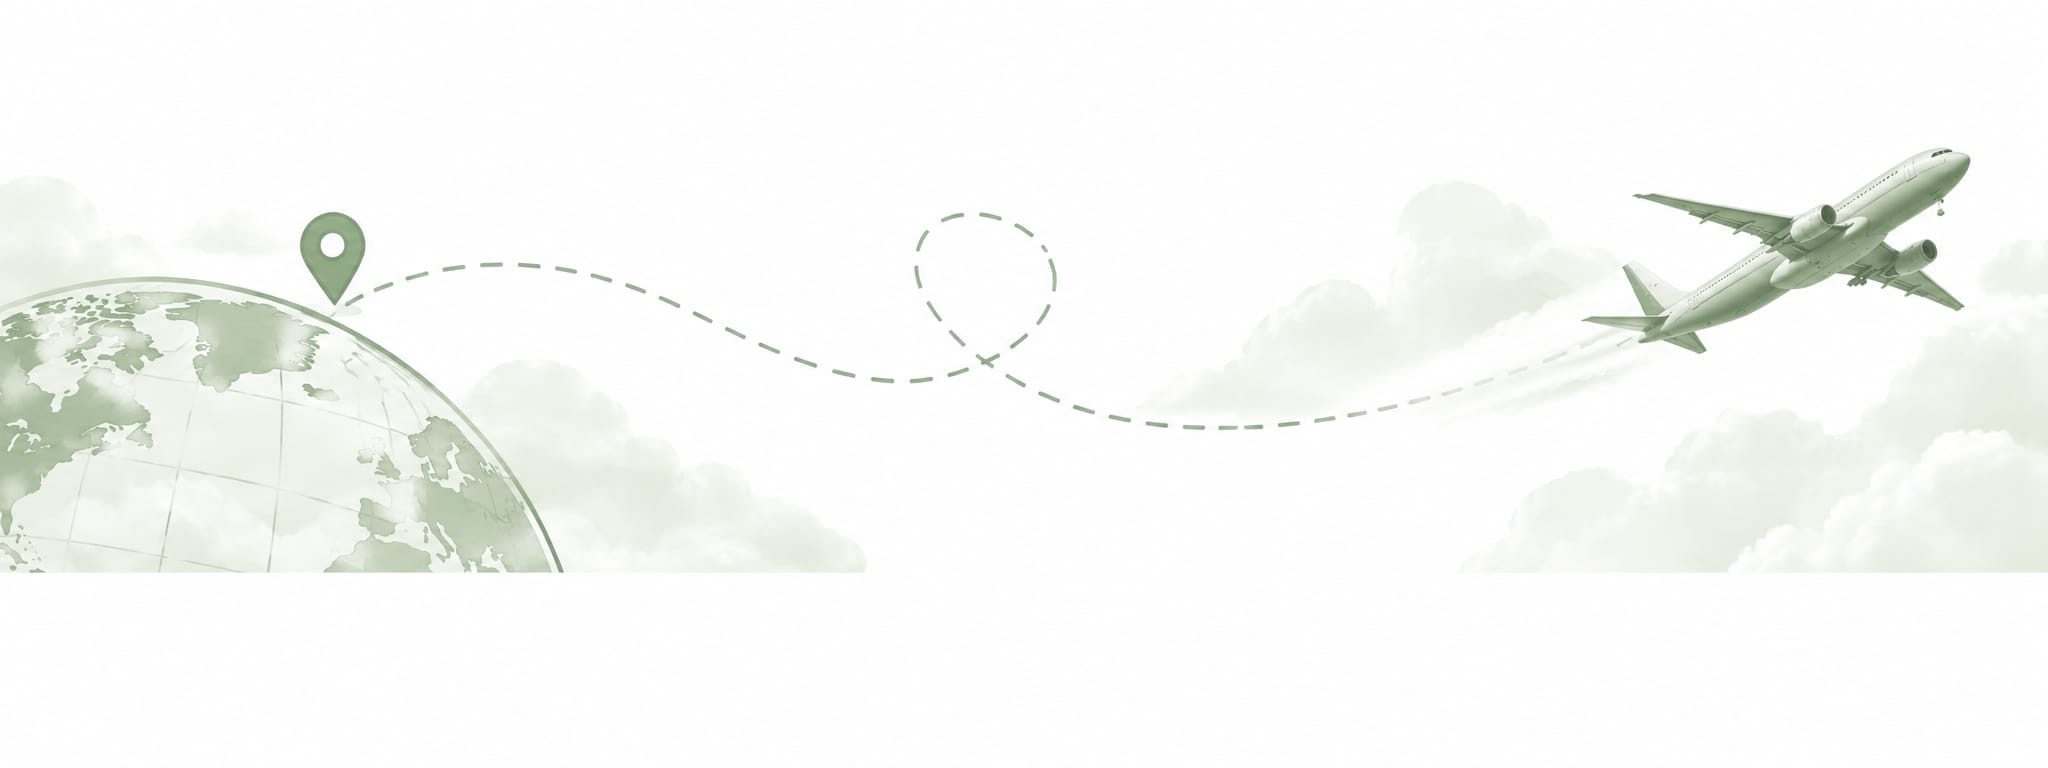
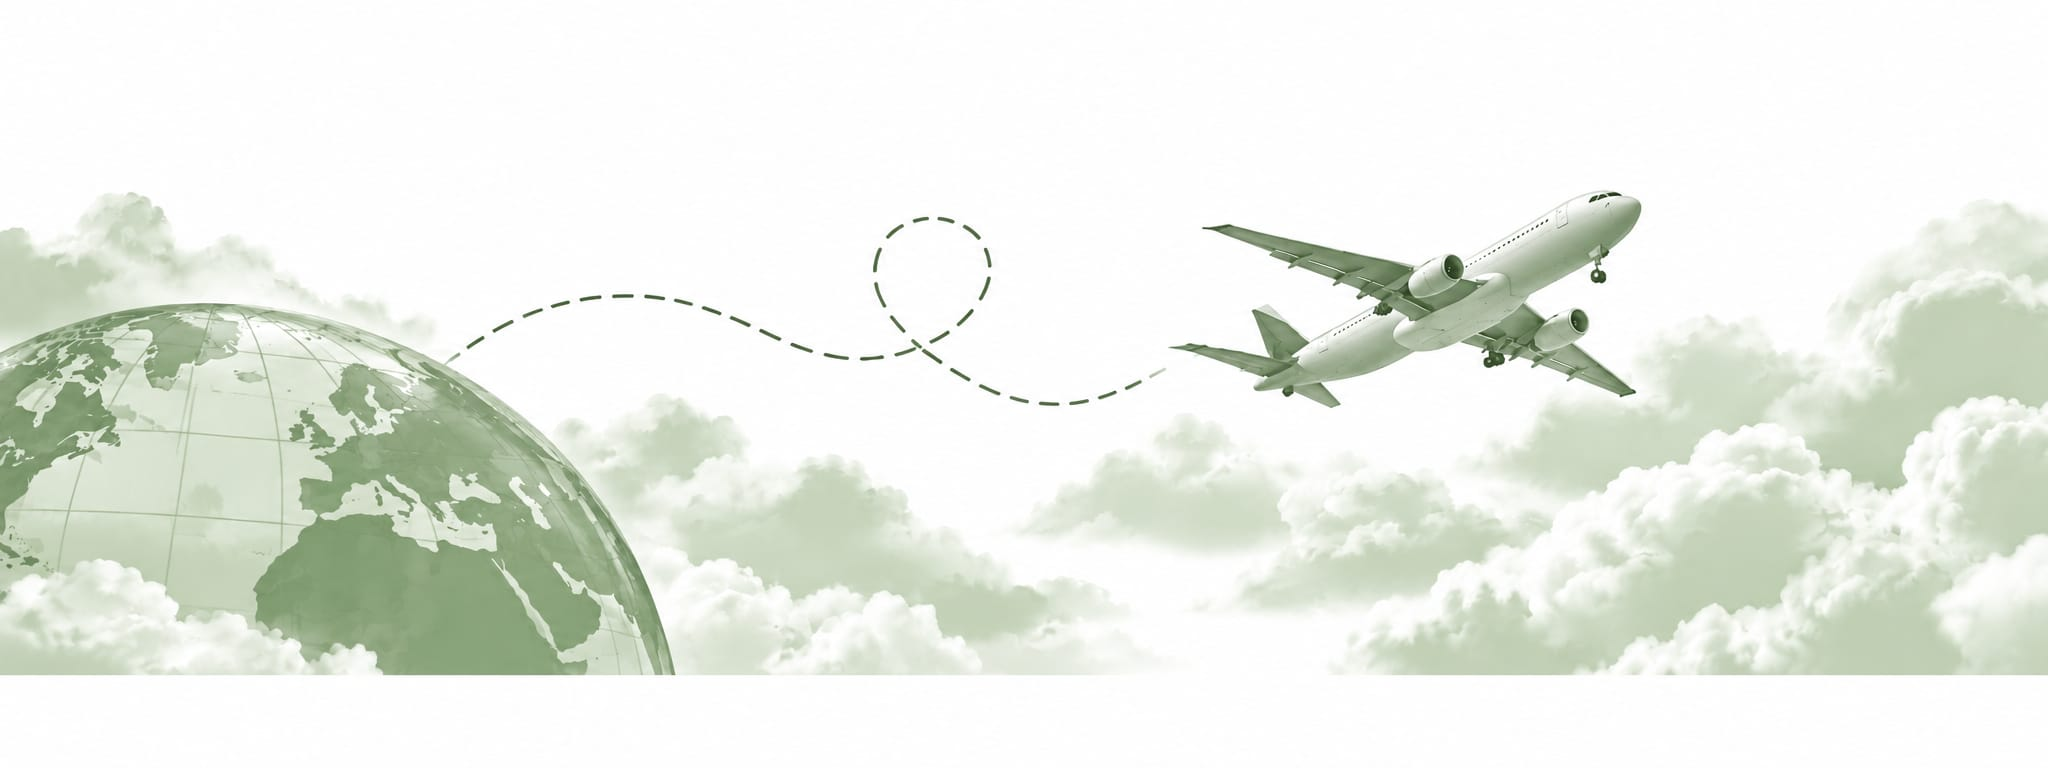
Nuevo fondo del navbar y menú más legible
- Nueva imagen img/fondo1.jpg
- Fondo encuadrado en la parte alta (center 15%) para que el avión no tape el menú
- Halo blanco en los enlaces del menú (portada y destinos)

diff --git a/css/inicio.css b/css/inicio.css
@@ -38,7 +38,7 @@
     /* Imagen de fondo del navbar (si no carga, se ve el blanco) */
     background-image: url("../img/fondo1.jpg");
     background-size: cover;
-    background-position: center 25%;
+    background-position: center 15%;
     background-repeat: no-repeat;
     backdrop-filter: blur(10px);
     box-shadow: 0 4px 20px rgba(0, 0, 0, 0.08);
@@ -111,6 +111,8 @@
         gap: 6px;
         transition: color 0.3s ease;
         letter-spacing: 0.3px;
+        /* Halo blanco para que el texto se lea sobre los dibujos del fondo */
+        text-shadow: 0 0 2px #fff, 0 0 6px #fff, 0 0 12px #fff;
     }
 
     .menu-principal > li > a i {

diff --git a/css/ciudades1.css b/css/ciudades1.css
@@ -38,7 +38,7 @@
     /* Imagen de fondo del navbar (si no carga, se ve el blanco) */
     background-image: url("../img/fondo1.jpg");
     background-size: cover;
-    background-position: center 25%;
+    background-position: center 15%;
     background-repeat: no-repeat;
     backdrop-filter: blur(10px);
     box-shadow: 0 4px 20px rgba(0, 0, 0, 0.08);
@@ -76,6 +76,8 @@
         font-weight: 600;
         font-size: 15px;
         transition: color 0.3s ease;
+        /* Halo blanco para que el texto se lea sobre los dibujos del fondo */
+        text-shadow: 0 0 2px #fff, 0 0 6px #fff, 0 0 12px #fff;
     }
 
     .nav-links li a:hover {
